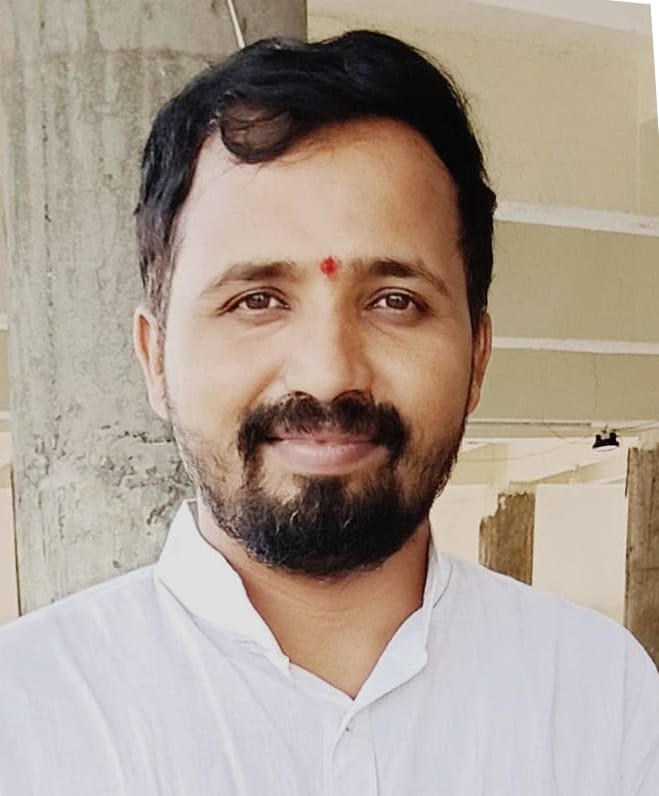
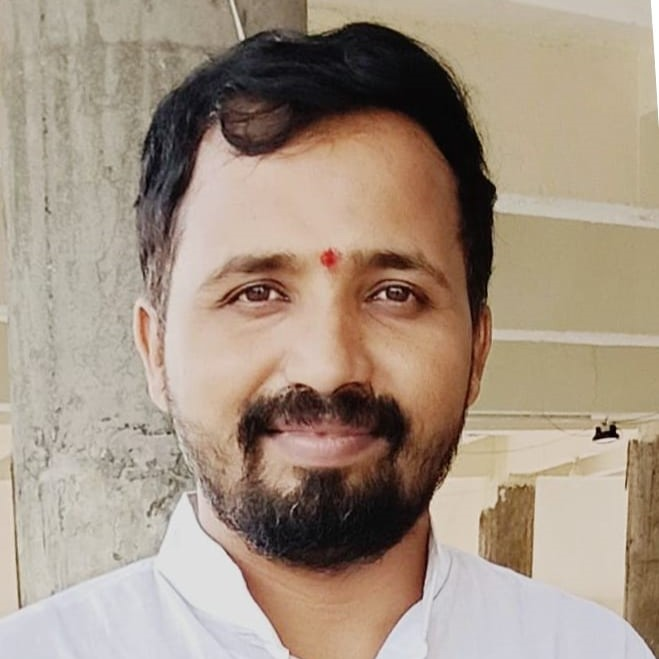
Update Changes

diff --git a/src/components/Error.js b/src/components/Error.js
@@ -1,0 +1,61 @@
+import React, { Component } from 'react';
+import { Container, Row } from 'react-bootstrap';
+import {
+    AiOutlineHome
+} from "react-icons/ai";
+import errorimg from "../assets/page_not_found.svg"
+import Button from "react-bootstrap/Button";
+import Home from './Home';
+
+
+class Error extends Component {
+    render() {
+        return (
+            <Container fluid className="home-about-section" id="about">
+                <Container>
+                    <Row className="home-about-description" style={{ textAlign: "center", marginTop: "50px", padding:"40px", }}>
+                        <h1 className="project-heading" >
+                            Invaild Page requested!
+                        </h1>
+                        <p style={{textAlign:"center", paddingTop:"20px"}}>Make sure you are following the correct URL!</p>
+                    </Row>
+                    <Row>
+                        <img
+                            src={errorimg}
+                            alt="Join pic"
+                            style={{ maxHeight: "190px",
+                            background: "#ffffff",
+                            padding:"30px",
+                            margin:"50px",
+                            marginLeft: "auto",
+                            marginRight: "auto",
+                            maxWidth:"400px"
+                         }}
+                            className="iete-join-logo img-fluid main-iete-logo"
+                        />
+                    </Row>
+                    <Row>
+                        <Button
+                            className="button-join "
+                            href='/'
+                            style={{
+                                display: "flex",
+                                justifyContent: "center",
+                                alignItems: "center",
+                                width: "200px",
+                                marginLeft: "auto",
+                                marginRight: "auto",
+                                marginTop: "15px"
+                            }}
+                        >
+                            <AiOutlineHome /> &nbsp;
+                                Homepage
+                        </Button>
+                    </Row>
+                </Container>
+            </Container>
+        );
+    }
+}
+
+export default Error;

diff --git a/src/components/Faculty.js b/src/components/Faculty.js
@@ -40,21 +40,20 @@ class Faculty extends Component {
             <Row>
 
               <Col
-                md={7}
+                md={8}
                 style={{
-                  justifyContent: "center",
                   paddingTop: "30px",
                   paddingBottom: "50px",
                 }}>
 
 
 
-                <Card className="quote-card-view">
+                <Card className="quote-card-view ">
                   <Card.Body>
 
-                    <blockquote className="blockquote mb-0">
+                    <blockquote className="blockquote  ">
 
-                      <p style={{ textAlign: "justify" }}>
+                      <p style={{ textAlign: "justify" }} >
                         <br />
                         As the Faculty Coordinator for the IETE Student Forum in our college, I am truly enthusiastic about the opportunities and benefits that the IETE (Institution of Electronics and Telecommunication Engineers) brings to our students. The IETE plays a pivotal role in nurturing technical skills, fostering innovation, and building a strong foundation in electronics and telecommunication engineering. The forum provides an interactive platform for students to engage in knowledge-sharing, workshops, seminars, and technical competitions.
                       </p>
@@ -71,10 +70,10 @@ class Faculty extends Component {
                 </Card>
 
               </Col>
-              <Col md={4} className="myAvtar">
+              <Col md={3} className="myAvtar">
 
 
-                <img src={myImg} className="img-fluid main-iete-logo" style={{ maxHeight: "350px" }} alt="avatar" />
+                <img src={myImg} className="img-fluid  co-ord-img" style={{ maxHeight: "280px", marginRight:"auto", marginLeft:"auto"}} alt="avatar" />
 
               </Col>
             </Row>

diff --git a/src/components/Join.js b/src/components/Join.js
@@ -27,9 +27,11 @@ class Join extends Component {
                 <blockquote className="blockquote mb-0">
                   <p
                     style={{
-                      textAlign: "justify",
+                      textAlign: "center",
                       fontSize: "1em",
-                      marginBottom: "20px"
+                      marginBottom: "20px",
+                      marginLeft:"15%",
+                      marginRight:"15%"
                     }}
                   >
                     <br />
@@ -42,14 +44,14 @@ class Join extends Component {
             <Button
               className="button-join"
               target="_blank"
-              href={""}
+              href={"https://forms.gle/TbPLgebEvUBpTrjD7"}
               style={{
                 display: "flex",
                 justifyContent: "center",
                 alignItems: "center",
                 width: "200px",
-                marginLeft: "43%",
-                marginRight: "43%",
+                marginLeft: "auto",
+                marginRight: "auto",
                 marginTop: "15px"
               }}
             >

diff --git a/src/App.js b/src/App.js
@@ -1,4 +1,5 @@
 import NavBar from './components/Navbar';
+import Error from './components/Error';
 import {
   HashRouter as Router,
   Route,
@@ -26,7 +27,8 @@ function App() {
           <Route path="/coreteam" element={<CoreTeam />} />
           <Route path="/about" element={<About />} />
           <Route path="/join" element={<Join />} />
-          <Route path="*" element={<Navigate to="/" />} />
+          <Route path="*" element={<Error />} />
+
         </Routes>
         <Footer/>
       </Router>

diff --git a/src/Style.css b/src/Style.css
@@ -11,6 +11,14 @@ button:focus {
   box-shadow: none !important;
 }
 
+.co-ord-img{
+  border-radius: 50%;
+  box-shadow: 0 4px 8px 0 rgba(0, 0, 0, 0.2), 0 6px 20px 0 rgba(0, 0, 0, 0.19);
+  border-style: solid;
+  border-width: thin !important;
+  border-color: #FA1632 !important;
+}
+
 /* --------- */
 /*  Preloader */
 /* --------- */

diff --git a/src/components/Navbar.js b/src/components/Navbar.js
@@ -34,7 +34,7 @@ function NavBar() {
     >
       <Container>
       <Navbar.Brand href="/" className="d-flex">
-          <h3>IETE DIEMS ISF</h3>
+          <h3>IETE DIEMS </h3>
         </Navbar.Brand>
         <Navbar.Toggle
           aria-controls="responsive-navbar-nav"

diff --git a/src/components/Home.js b/src/components/Home.js
@@ -6,6 +6,7 @@ import Particle from "./Particles";
 import Home2 from "./Home2";
 import AboutInst from "./AboutInst";
 
+
 function Home() {
   return (
     <section>
